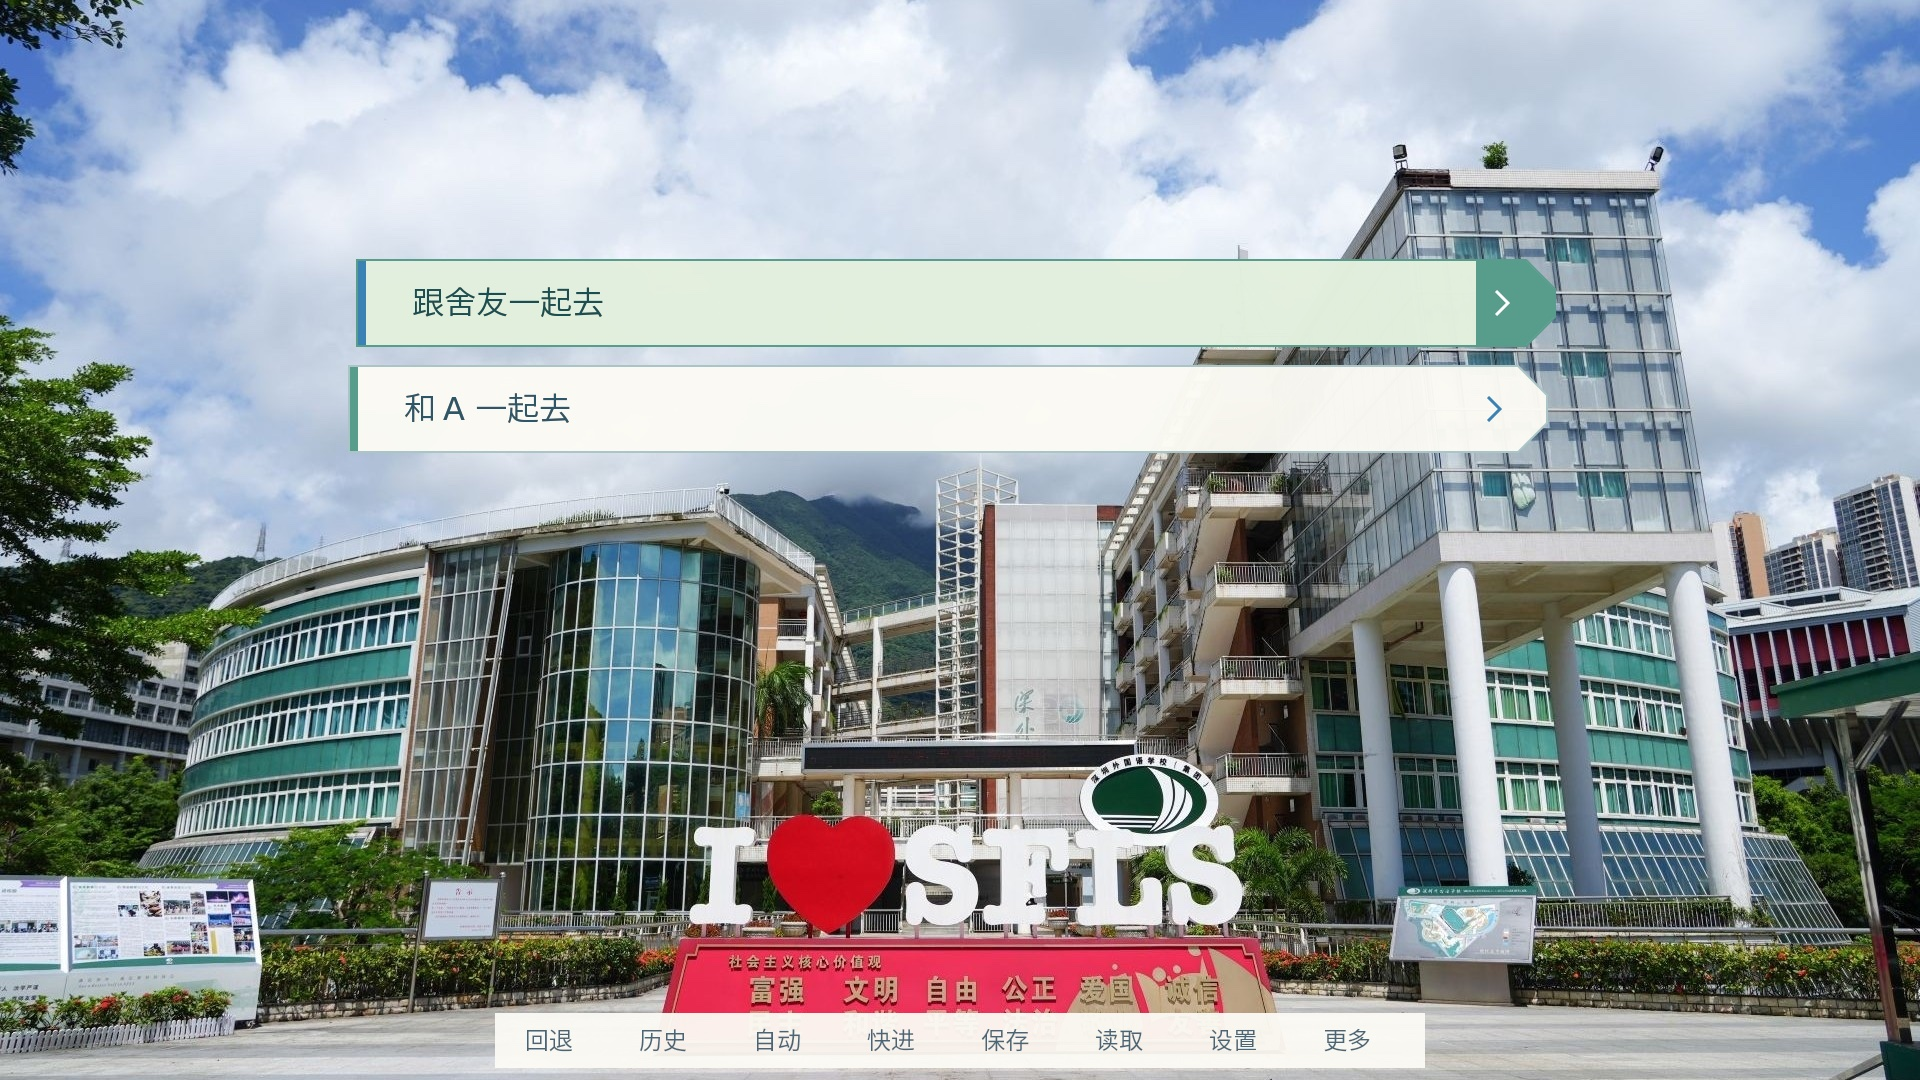
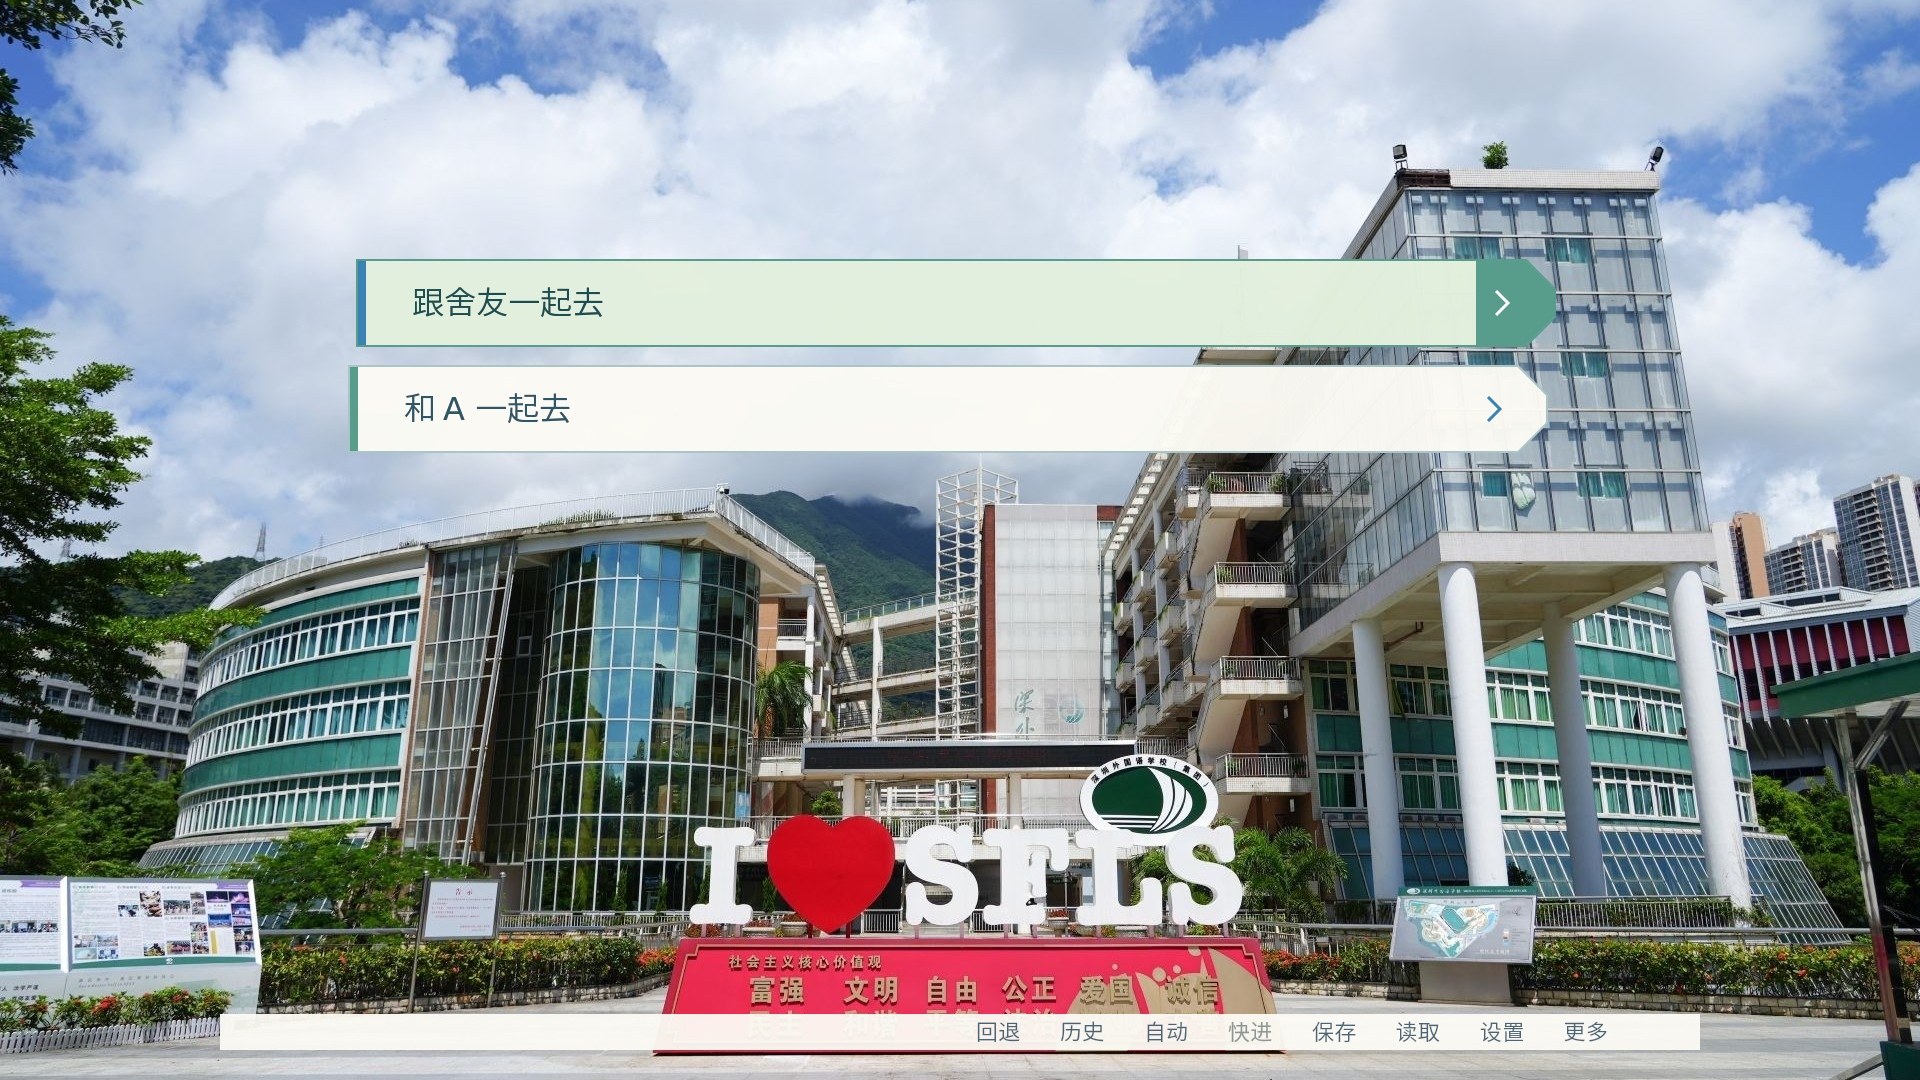
fix: reduce dialogue footprint and integrate quick menu

Changed region(s): [[0.0938, 0.9167, 0.9062, 1.0]]

diff --git a/docs/gameplay-ui.md b/docs/gameplay-ui.md
@@ -19,9 +19,9 @@
 
 ## 尺寸与阅读
 
-桌面对话卡宽 1792、高 294，正文 34，姓名 30；快捷菜单独立位于卡片下方。small 变体正文 40、姓名 36，卡片高 344；touch 使用更大的按钮和五个入口，完整工具仍可通过“菜单/更多”访问。所有尺寸使用虚拟像素，窗口按引擎规则等比缩放。
+桌面对话卡宽 1480（画面约 77%），最低高 176，正文 32、姓名 26。高度由正文换行自然扩展，普通台词不预留四行空白；快捷菜单放入卡片下缘，使用透明背景，不再另占一条横栏。small 变体卡宽 1640、最低高 208，正文 38、姓名 32；touch 使用更大的按钮和五个入口，完整工具仍可通过“菜单/更多”访问。所有尺寸使用虚拟像素，窗口按引擎规则等比缩放。
 
-姓名签按姓名长度扩展，最长宽 1120。正文已验证四行中文，继续箭头位于右下方的留白；更长段落应拆成多次对话，避免占用整幅照片。选项自动换行，少量选项居中，大量选项在上方照片区域滚动，可用滚轮、Page Up/Down 和触摸拖动。
+姓名签按姓名长度扩展，最长宽 1040。正文已验证四行中文，卡片在长段落时才向上扩展，底部为快捷操作保留独立空间；继续箭头位于右下方。更长段落应拆成多次对话，避免占用整幅照片。选项自动换行，少量选项居中，大量选项在上方照片区域滚动，可用滚轮、Page Up/Down 和触摸拖动。
 
 正文与米白底的静态对比度约 9.32:1，普通/悬停选项约 7.66:1 / 7.83:1。半透明底保持较高不透明度，让亮天、树叶和建筑照片不干扰阅读。数值针对指定底色，不代表任意透明合成背景的完整无障碍认证。
 
@@ -43,6 +43,8 @@ SDL_VIDEODRIVER=dummy SDL_AUDIODRIVER=dummy RENPY_RENDERER=sw RENPY_SCALE_FACTOR
 设置 `RENPY_SCALE_FACTOR=0.666666667` 可检查 1280×720 捕获；用 `RENPY_VARIANT="small touch mobile"` 和 `RENPY_SCALE_FACTOR=0.5` 检查 960×540 触摸布局。截图默认写入 `tests/screenshots`，可用 `SFLS_UI_QA_OUTPUT` 指定绝对输出目录。测试结束后删除临时的 `game/zz_campus_qa.rpy` 及对应的 `.rpyc`；测试副本及存档不用于正式发布。
 
 测试脚本在 SDL dummy 环境中使用周期刷新和独立 RGBA 软件捕获缓冲，解决该环境的停帧及截图像素格式问题。这些适配只存在于测试目录，不修改 Ren’Py SDK 或游戏运行代码。
+
+紧凑修订验证了短台词的卡片高度、透明框内快捷栏，以及长文本不侵入按钮区域。
 
 已完成：Ren’Py lint、资源格式检查、差异空白检查；桌面 1920×1080、缩放 1280×720、small/touch 960×540 的四个运行用例；两条实际剧情分支；快速保存/读取、保存页、设置、历史、自动模式、隐藏界面；长姓名、四行正文、长选项与八项菜单滚动。
 
